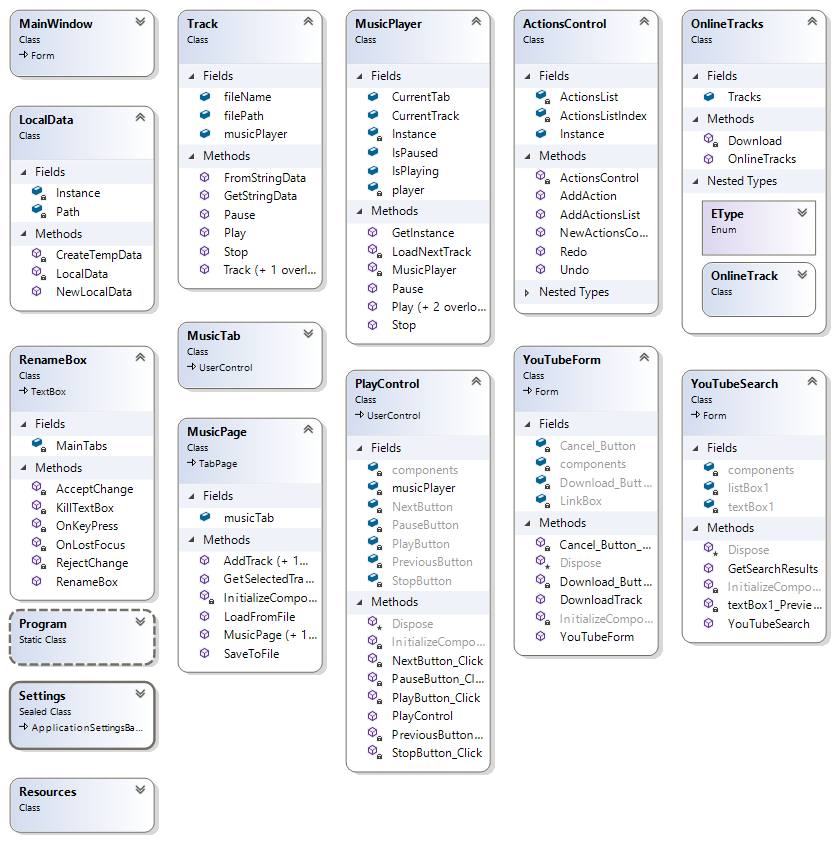
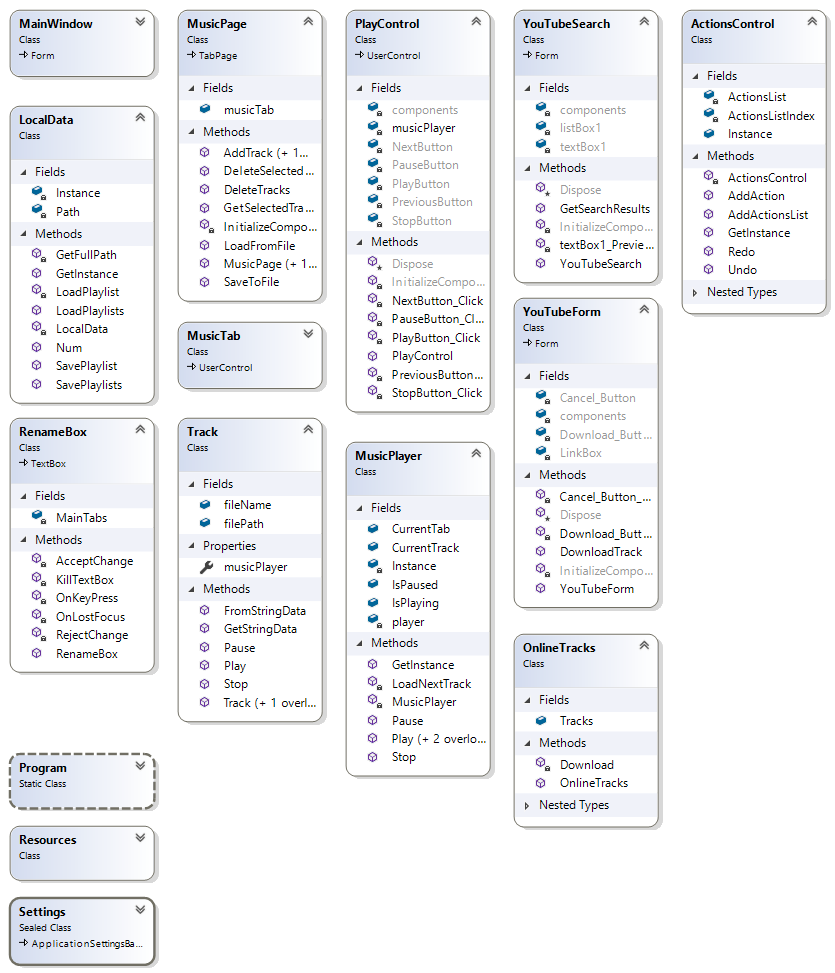
Added Move Tracks feature
Player is also automatically saving playlists to file in
AppData/Roaming/KittenPlayer by Serializable interface.

diff --git a/KittenPlayer/DragDrop.cs b/KittenPlayer/DragDrop.cs
@@ -1,6 +1,8 @@
 using System;
 using System.Collections.Generic;
 using System.Windows.Forms;
+using System.Drawing;
+using System.Diagnostics;
 
 namespace KittenPlayer
 {
@@ -23,17 +25,29 @@ namespace KittenPlayer
                 tracksList = MakeTracksList(FilesArray);
             }
 
-            foreach (Track track in tracksList)
+            AddTracks(tracksList, DropIndex);
+            Refresh();
+            MainWindow mainWindow = Application.OpenForms[0] as MainWindow;
+            //MainWindow mainWindow = Parent.Parent as MainWindow;
+            mainWindow.SavePlaylists();
+        }
+
+        void AddTracks(List<Track> Tracks, int DropIndex)
+        {
+            for(int i = 0; i < Tracks.Count; i++)
             {
-                AddNewTrack(track);
+                AddNewTrack(Tracks[i], DropIndex + i);
             }
         }
 
         List<Track> MakeTracksList(string[] FilesArray)
         {
+            List<String> Array = new List<String>(FilesArray);
+            Array.Sort();
+
             List<Track> Tracks = new List<Track>();
 
-            foreach (String file in FilesArray)
+            foreach (String file in Array)
             {
                 Tracks.Add(new Track(file));
             }
@@ -55,6 +69,73 @@ namespace KittenPlayer
             }
 
             return TracksList;
+        }
+
+        int DropIndex = 0;
+
+        private void PlaylistView_DragOver(object sender, DragEventArgs e)
+        {
+            if (e.Data.GetDataPresent(typeof(List<ListViewItem>)))
+            {
+                e.Effect = DragDropEffects.Move;
+            }
+            
+            int N = PlaylistView.Items.Count;
+
+            if (N == 0)
+            {
+                DropIndex = 0;
+                Application.DoEvents();
+                return;
+            }
+
+            Point mLoc = PlaylistView.PointToClient(Cursor.Position);
+            
+            Rectangle r0 = PlaylistView.Items[0].Bounds;
+            Rectangle r1 = PlaylistView.Items[N-1].Bounds;
+
+            var hitt = PlaylistView.HitTest(mLoc);
+
+            if (hitt.Item == null)
+            {
+
+                if (mLoc.Y < r0.Y)
+                {
+                    PlaylistView.InsertionMark.AppearsAfterItem = false;
+                    PlaylistView.InsertionMark.Index = 0;
+                    DropIndex = 0;
+                }
+                else if (mLoc.Y > r1.Y)
+                {
+                    PlaylistView.InsertionMark.AppearsAfterItem = true;
+                    PlaylistView.InsertionMark.Index = N - 1;
+                    DropIndex = N;
+                }
+            }
+            else
+            {
+                int idx = hitt.Item.Index;
+                PlaylistView.InsertionMark.Index = idx;
+
+                if (mLoc.Y < r0.Y)
+                {
+                    PlaylistView.InsertionMark.AppearsAfterItem = false;
+                    DropIndex = 0;
+                }
+                else
+                {
+                    PlaylistView.InsertionMark.AppearsAfterItem = true;
+                    DropIndex = idx + 1;
+                }
+                if (idx == prevItem) return;
+            }
+            Application.DoEvents();
+
+        }
+
+        private void PlaylistView_DragLeave(object sender, EventArgs e)
+        {
+            PlaylistView.InsertionMark.Index = -1;
         }
     }
 }

diff --git a/KittenPlayer/MusicTab.cs b/KittenPlayer/MusicTab.cs
@@ -1,5 +1,5 @@
 using System;
-using System.Drawing;
+using System.Diagnostics;
 using System.Collections.Generic;
 using System.Windows.Forms;
 using System.Linq;
@@ -16,6 +16,8 @@ namespace KittenPlayer
             InitializeComponent();
         }
 
+
+
         public void RemoveSelectedTracks()
         {
             List<int> SelectedIndices = new List<int>();
@@ -24,6 +26,8 @@ namespace KittenPlayer
                 SelectedIndices.Add(n);
             }
             RemoveTrack(SelectedIndices);
+            Refresh();
+            
         }
 
         public void RemoveTrack(List<int> Positions)
@@ -187,13 +191,16 @@ namespace KittenPlayer
             PlaylistView.Items.Insert(Position, item);
         }
 
-        public void AddNewTrack(Track track)
+        public void AddNewTrack(Track track, int Position = 0)
         {
-            Tracks.Add(track);
+            Debug.WriteLine(Position);
+            //Tracks.Add(track);
+            Tracks.Insert(Position, track);
             ListViewItem item = new ListViewItem();
-            item.Text = (Tracks.Count).ToString();
+            //item.Text = (Tracks.Count).ToString();
             item.SubItems.Add(track.fileName);
-            PlaylistView.Items.Add(item);
+            //PlaylistView.Items.Add(item);
+            PlaylistView.Items.Insert(Position, item);
         }
 
         public void AddNewTrack(String filePath, int Position = -1)
@@ -219,32 +226,6 @@ namespace KittenPlayer
         }
 
         
-        private void PlaylistView_DragOver(object sender, DragEventArgs e)
-        {
-            if (e.Data.GetDataPresent(typeof(List<ListViewItem>)))
-            {
-                e.Effect = DragDropEffects.Move;
-            }
-
-
-            Point mLoc = PlaylistView.PointToClient(Cursor.Position);
-            var hitt = PlaylistView.HitTest(mLoc);
-            if (hitt.Item == null) return;
-
-            int idx = hitt.Item.Index;
-            PlaylistView.InsertionMark.Index = idx;
-
-            PlaylistView.InsertionMark.AppearsAfterItem = true;
-
-            if (idx == prevItem) return;
-
-            Application.DoEvents();
-        }
-
-        private void PlaylistView_DragLeave(object sender, EventArgs e)
-        {
-            PlaylistView.InsertionMark.Index = -1;
-        }
 
         private void MusicTab_DoubleClick(object sender, EventArgs e)
         {
@@ -325,6 +306,19 @@ namespace KittenPlayer
             }
         }
 
+        public void RefreshPlaylistView()
+        {
+            for(int i = 0; i < PlaylistView.Items.Count; i++)
+            {
+                PlaylistView.Items[i].Text = "" + (i + 1);
+            }
+        }
+
+        public override void Refresh()
+        {
+            base.Refresh();
+            RefreshPlaylistView();
+        }
         
     }
 }

diff --git a/KittenPlayer/LocalData.cs b/KittenPlayer/LocalData.cs
@@ -3,7 +3,12 @@ using System.Collections.Generic;
 using System.Linq;
 using System.Text;
 using System.Threading.Tasks;
+using System.Diagnostics;
 using System.IO;
+using System.Windows.Forms;
+using System.Runtime.Serialization.Formatters.Binary;
+using System.Runtime.Serialization;
+using System.Collections;
 
 namespace KittenPlayer
 {
@@ -15,13 +20,16 @@ namespace KittenPlayer
 
         private LocalData()
         {
-            Path = Environment.GetFolderPath(Environment.SpecialFolder.LocalApplicationData);
+            Path = Environment.GetFolderPath(Environment.SpecialFolder.ApplicationData);
             Path += "\\KittenPlayer\\";
 
-            Console.Out.WriteLine(Path);
+            if (!File.Exists(Path))
+            {
+                Directory.CreateDirectory(Path);
+            }
         }
 
-        public static LocalData NewLocalData()
+        public static LocalData GetInstance()
         {
             if(Instance == null)
             {
@@ -29,11 +37,59 @@ namespace KittenPlayer
             }
             return Instance;
         }
-
-        private void CreateTempData()
+        
+        public void SavePlaylists(TabControl MainTabs)
         {
-            Directory.CreateDirectory(Path);
+            for (int i = 0; i < MainTabs.Controls.Count; i++)
+            {
+                SavePlaylist(MainTabs.Controls[i] as MusicPage, GetFullPath(i));
+            }
+        }
+
+        public void SavePlaylist(MusicPage musicPage, String Name)
+        {
+            FileStream fs = new FileStream(Name, FileMode.Create);
+
+            BinaryFormatter formatter = new BinaryFormatter();
+            try
+            {
+                Tuple<String, List<Track>> MusicTuple;
+                MusicTuple = new Tuple<String, List<Track>>(musicPage.Text, musicPage.musicTab.Tracks);
+                formatter.Serialize(fs, MusicTuple);
+            }
+            catch (SerializationException e)
+            {
+                Console.WriteLine("Failed to serialize. Reason: " + e.Message);
+                throw;
+            }
+            finally
+            {
+                fs.Close();
+            }
+        }
+
+        String GetFullPath(int i)
+        {
+            return Path + i + ".dat";
+        }
+
+        public void LoadPlaylists(TabControl MainTabs)
+        {
+            for(int i = 0; i < Num(); i++)
+            {
+                LoadPlaylist(i);
+            }
+        }
+
+        void LoadPlaylist(int i)
+        {
 
         }
+
+        public int Num()
+        {
+            return Directory.GetFiles(Path, "*.dat", SearchOption.TopDirectoryOnly).Length;
+        }
+
     }
 }

diff --git a/KittenPlayer/MainWindow.cs b/KittenPlayer/MainWindow.cs
@@ -16,7 +16,7 @@ namespace KittenPlayer
     {
 
         MusicPlayer musicPlayer = MusicPlayer.GetInstance();
-        LocalData localData = LocalData.NewLocalData();
+        LocalData localData = LocalData.GetInstance();
         ActionsControl actionsControl = ActionsControl.GetInstance();
 
 
@@ -29,9 +29,14 @@ namespace KittenPlayer
             MainTabs.Controls.Add(MainPage);
             MainTabs.Controls[0].Dock = DockStyle.Fill;
             
-
+            //localData
         }
        
+        public void SavePlaylists()
+        {
+            localData.SavePlaylists(MainTabs);
+            Debug.WriteLine("Local data: "+localData.Num());
+        }
         
         private void MainWindow_Click(object sender, EventArgs e)
         {

diff --git a/KittenPlayer/MainTabs.cs b/KittenPlayer/MainTabs.cs
@@ -110,6 +110,9 @@ namespace KittenPlayer
             TabControl tc = (TabControl)sender;
 
             MusicPage dragTab = e.Data.GetData(typeof(MusicPage)) as MusicPage;
+
+            if (dragTab == null) return;
+
             int dragTab_index = tc.TabPages.IndexOf(dragTab);
 
             // hover over a tab?
@@ -182,7 +185,6 @@ namespace KittenPlayer
 
         private void MainTabs_DragEnter(object sender, DragEventArgs e)
         {
-            Debug.WriteLine("I am dragged!");
             e.Effect = DragDropEffects.All;
         }
 

diff --git a/KittenPlayer/Track.cs b/KittenPlayer/Track.cs
@@ -5,9 +5,13 @@ using System.Diagnostics;
 
 namespace KittenPlayer
 {
+    [Serializable]
     public class Track
     {
-        public MusicPlayer musicPlayer = MusicPlayer.GetInstance();
+        public MusicPlayer musicPlayer
+        {
+            get { return MusicPlayer.GetInstance(); }
+        }
 
         public String filePath;
         public String fileName;

diff --git a/README.md b/README.md
@@ -14,15 +14,17 @@ User can:
 + [+] add a new playlist
 + [+] rename a playlist
 + [+] delete a playlist
-+ [+] play selected track (bugs)
++ [+] play selected track
 + [+] pause playing current track
 + [+] stop playing current track
 + [+] use Play/Pause/Stop buttons to control the track play
 + [+] have tracks as custom names without renaming original files
 + [+] rearrange playlist tabs
 + [+] delete a group of tracks from the playlist
-+ [-] set specific location for drag-and-drop operation
-+ [-] move tracks on a playlist
++ [+] set specific location for drag-and-drop operation
++ [+] move tracks on a playlist
++ [+] get playlists saved in AppData files
++ [-] get playlists loaded from AppData files
 + [-] undo and redo any action
 + [-] change current track time on a trackbar
 + [-] see current track time on a trackbar
@@ -32,8 +34,6 @@ User can:
 + [-] sort files by names, respective to folders
 + [-] open the menu list and add files to playlist
 + [-] open the menu list and add whole folder to playlist
-+ [-] get playlists saved in AppData files
-+ [-] get playlists loaded from AppData files
 + [-] find tracks containing specific substring
 
 ### Youtube functionality
